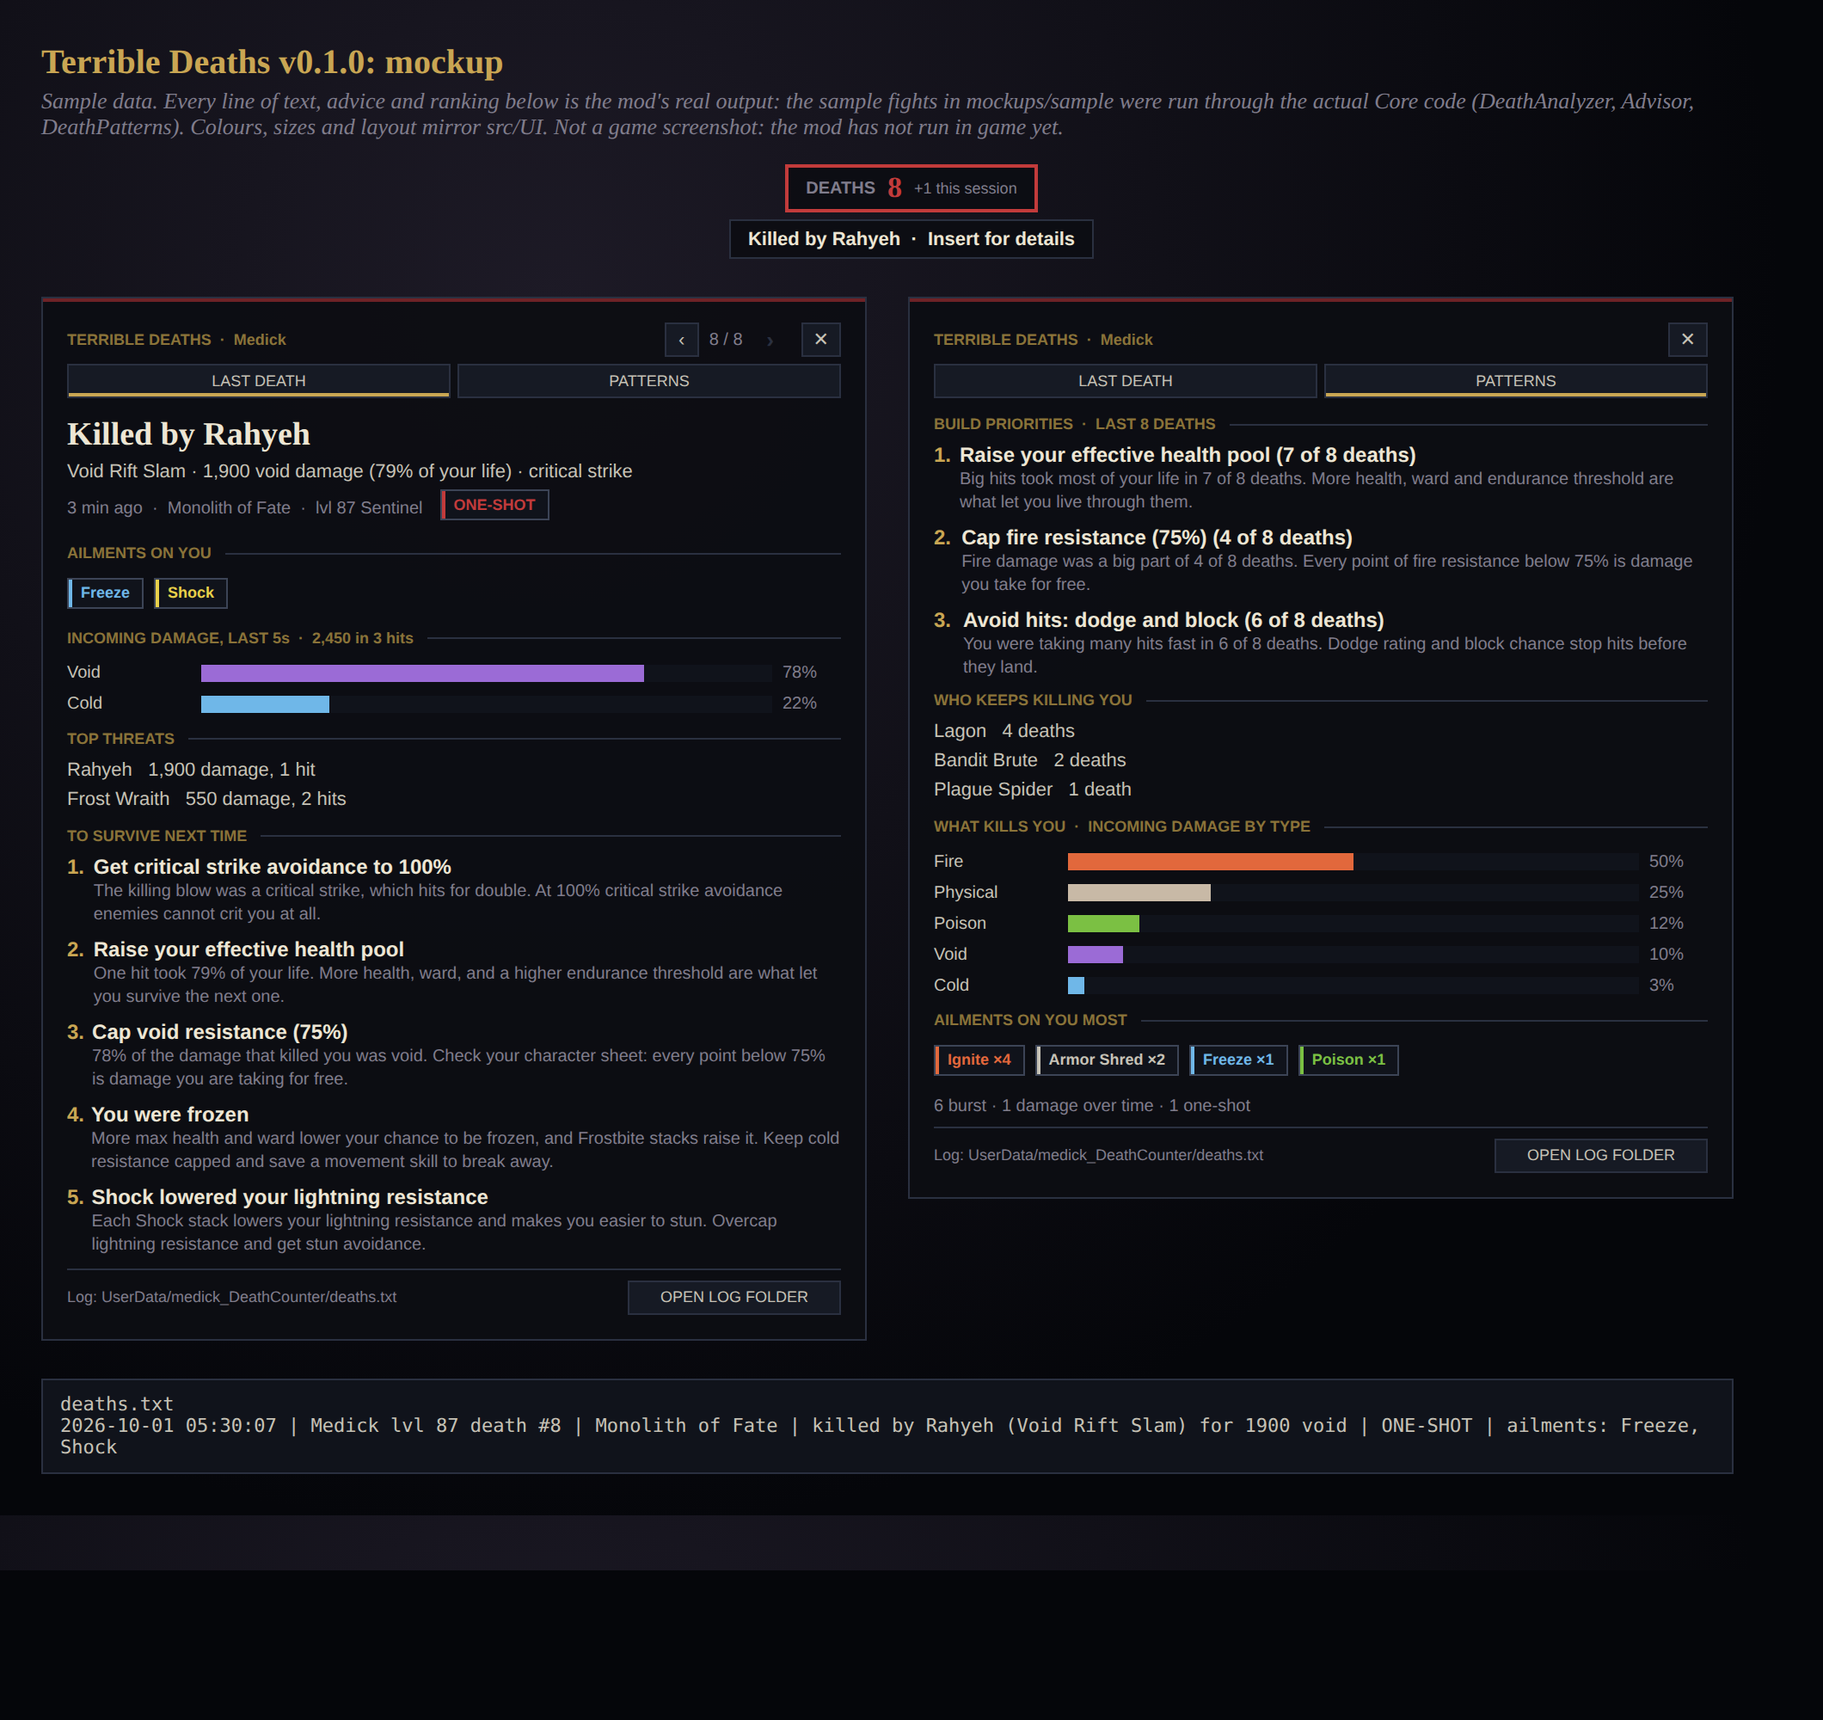
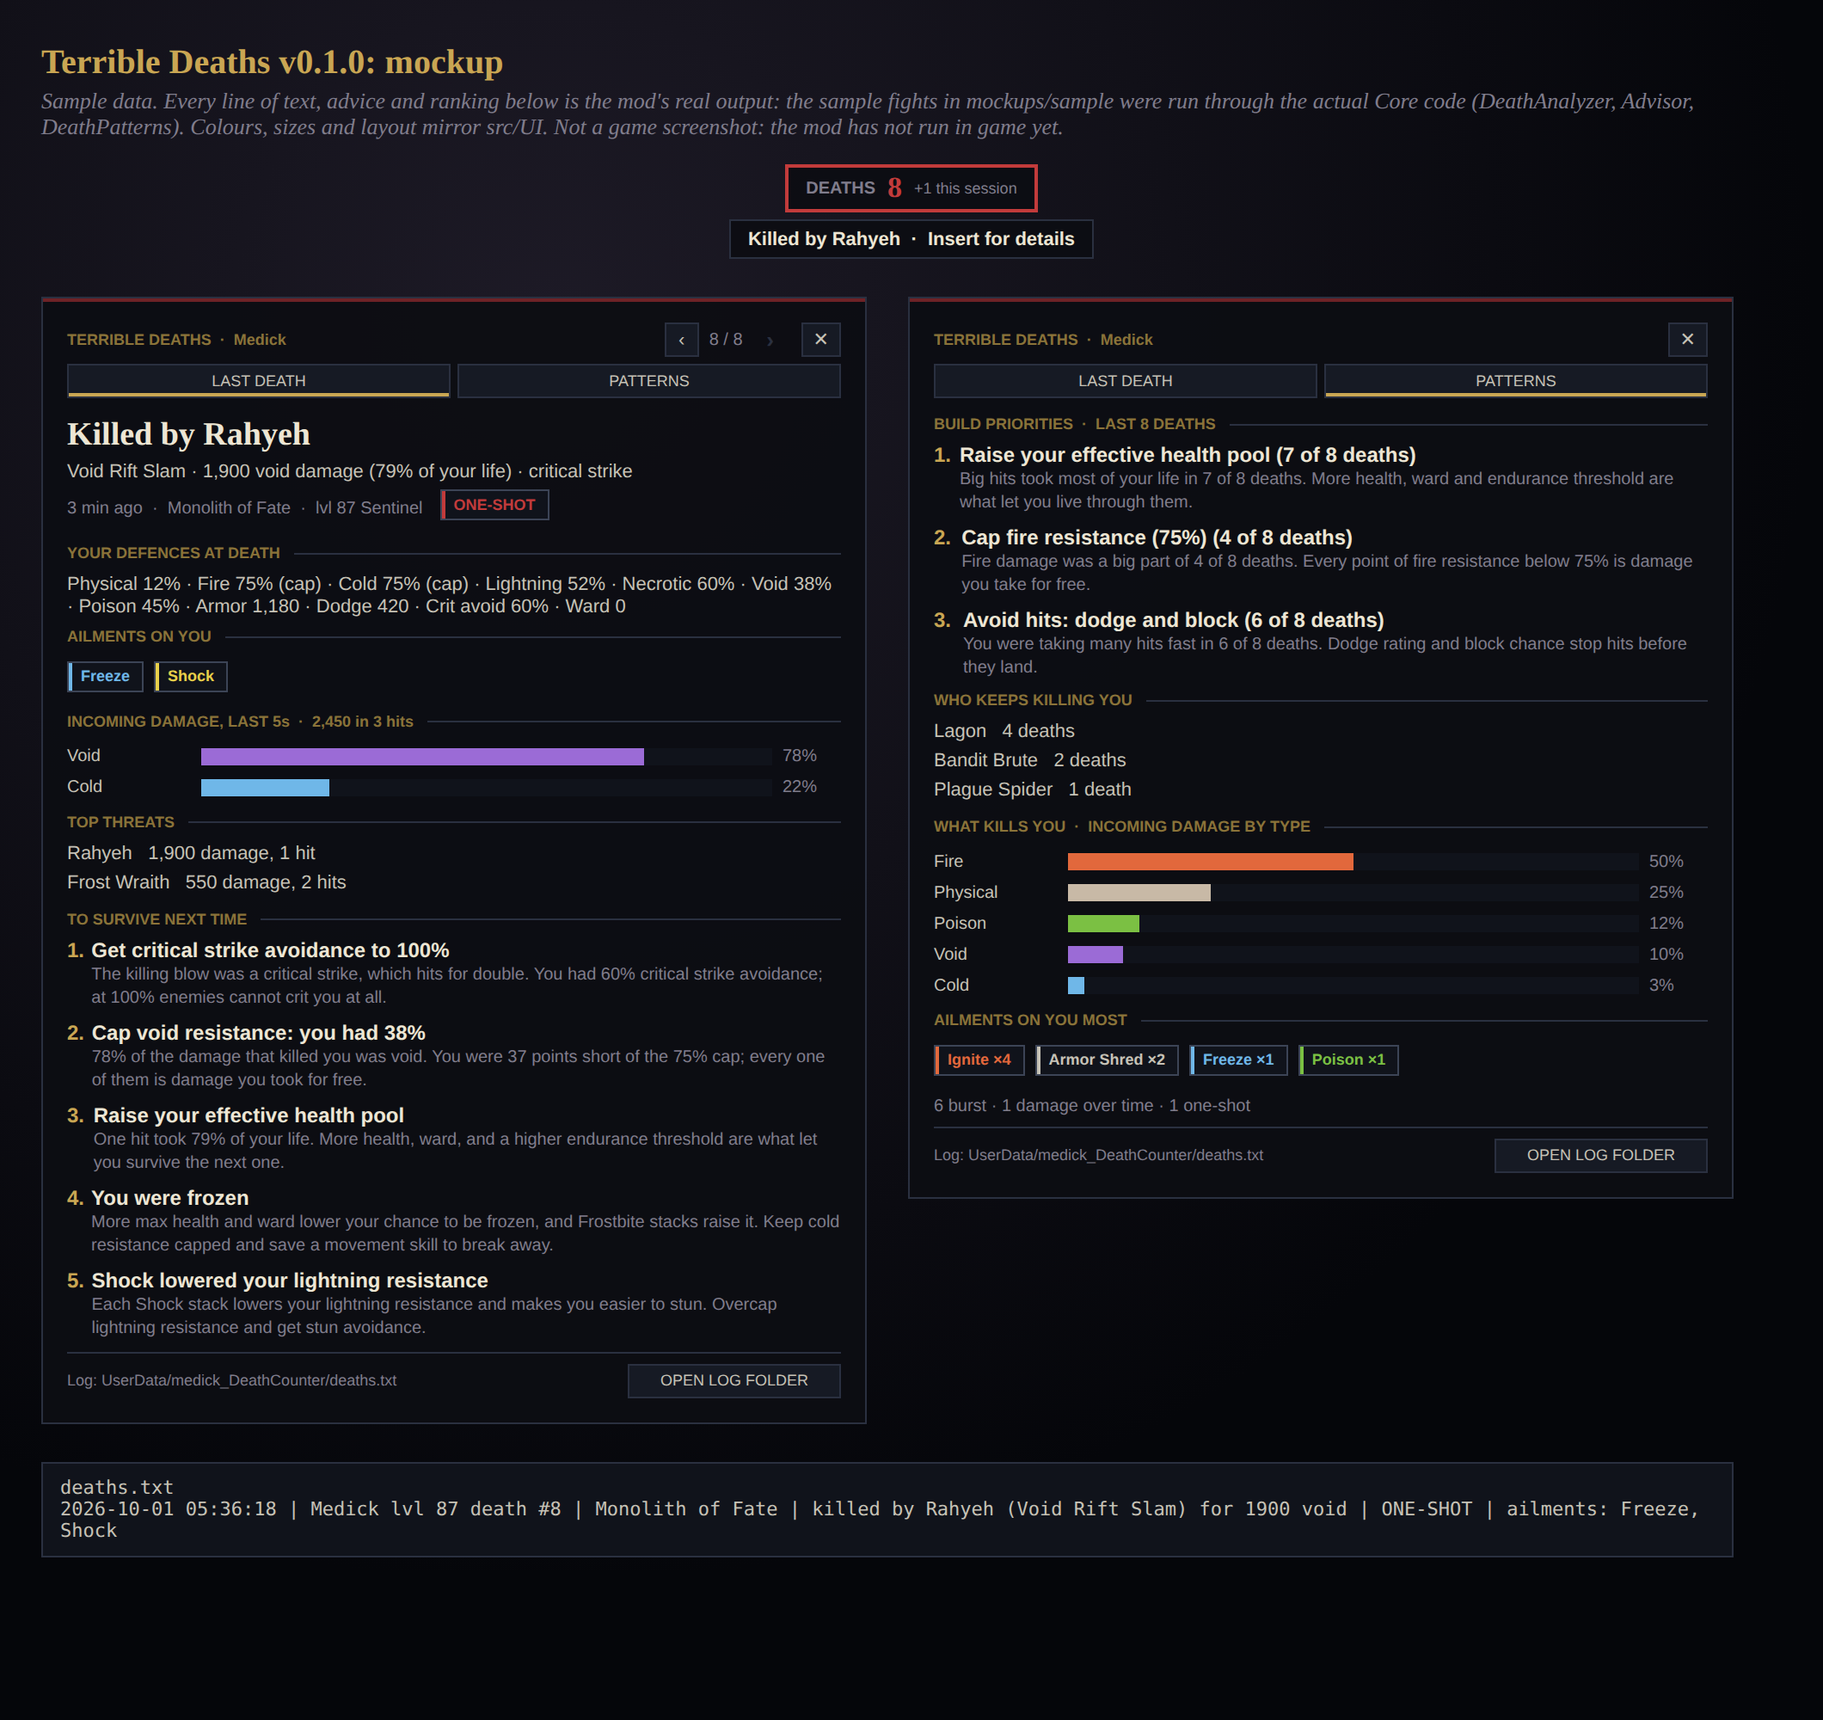
Terrible Deaths mockup: show the defences snapshot and named-number advice
Claude-Session: https://claude.ai/code/session_018uE4PQpeqzhX63tq1rxoRs

diff --git a/medick_DeathCounter/mockups/death-panel.html b/medick_DeathCounter/mockups/death-panel.html
@@ -30,6 +30,6 @@
 <p class="note">Sample data. Every line of text, advice and ranking below is the mod's real output: the sample fights in mockups/sample were run through the actual Core code (DeathAnalyzer, Advisor, DeathPatterns). Colours, sizes and layout mirror src/UI. Not a game screenshot: the mod has not run in game yet.</p>
 <div class="hud"><div class="pill"><span class="l">DEATHS</span><span class="v">8</span><span class="s">+1 this session</span></div>
 <div class="toast">Killed by Rahyeh&nbsp; ·&nbsp; Insert for details</div></div>
-<div class="deck"><div class="panel"><div class="blood"></div><div class="hdr"><span>TERRIBLE DEATHS&nbsp; ·&nbsp; Medick</span><span class="nav"><span class="btn">‹</span><span class="pos">8 / 8</span><span class="dim">›</span></span><span class="btn">✕</span></div><div class="tabs"><span class="tab on">LAST DEATH</span><span class="tab">PATTERNS</span></div><div class="title">Killed by Rahyeh</div><div class="how">Void Rift Slam  ·  1,900 void damage (79% of your life)  ·  critical strike</div><div class="meta"><span>3 min ago&nbsp; ·&nbsp; Monolith of Fate&nbsp; ·&nbsp; lvl 87 Sentinel</span><span class="chip" style="--c:#C23B3B">ONE-SHOT</span></div><div class="sec">AILMENTS ON YOU</div><div class="chips"><span class="chip" style="--c:#6FB7E8">Freeze</span><span class="chip" style="--c:#E8D04A">Shock</span></div><div class="sec">INCOMING DAMAGE, LAST 5s&nbsp; ·&nbsp; 2,450 in 3 hits</div><div class="bar"><span class="bl">Void</span><span class="track"><i style="width:77.6%;background:#9B6BD6"></i></span><span class="pct">78%</span></div><div class="bar"><span class="bl">Cold</span><span class="track"><i style="width:22.4%;background:#6FB7E8"></i></span><span class="pct">22%</span></div><div class="sec">TOP THREATS</div><div class="row">Rahyeh&nbsp;&nbsp; 1,900 damage, 1 hit</div><div class="row">Frost Wraith&nbsp;&nbsp; 550 damage, 2 hits</div><div class="sec">TO SURVIVE NEXT TIME</div><div class="tip"><b class="n">1.</b><div><div class="tt">Get critical strike avoidance to 100%</div><div class="tb">The killing blow was a critical strike, which hits for double. At 100% critical strike avoidance enemies cannot crit you at all.</div></div></div><div class="tip"><b class="n">2.</b><div><div class="tt">Raise your effective health pool</div><div class="tb">One hit took 79% of your life. More health, ward, and a higher endurance threshold are what let you survive the next one.</div></div></div><div class="tip"><b class="n">3.</b><div><div class="tt">Cap void resistance (75%)</div><div class="tb">78% of the damage that killed you was void. Check your character sheet: every point below 75% is damage you are taking for free.</div></div></div><div class="tip"><b class="n">4.</b><div><div class="tt">You were frozen</div><div class="tb">More max health and ward lower your chance to be frozen, and Frostbite stacks raise it. Keep cold resistance capped and save a movement skill to break away.</div></div></div><div class="tip"><b class="n">5.</b><div><div class="tt">Shock lowered your lightning resistance</div><div class="tb">Each Shock stack lowers your lightning resistance and makes you easier to stun. Overcap lightning resistance and get stun avoidance.</div></div></div><div class="foot"><span>Log: UserData/medick_DeathCounter/deaths.txt</span><span class="btn">OPEN LOG FOLDER</span></div></div><div class="panel"><div class="blood"></div><div class="hdr"><span>TERRIBLE DEATHS&nbsp; ·&nbsp; Medick</span><span class="btn">✕</span></div><div class="tabs"><span class="tab">LAST DEATH</span><span class="tab on">PATTERNS</span></div><div class="sec">BUILD PRIORITIES&nbsp; ·&nbsp; LAST 8 DEATHS</div><div class="tip"><b class="n">1.</b><div><div class="tt">Raise your effective health pool  (7 of 8 deaths)</div><div class="tb">Big hits took most of your life in 7 of 8 deaths. More health, ward and endurance threshold are what let you live through them.</div></div></div><div class="tip"><b class="n">2.</b><div><div class="tt">Cap fire resistance (75%)  (4 of 8 deaths)</div><div class="tb">Fire damage was a big part of 4 of 8 deaths. Every point of fire resistance below 75% is damage you take for free.</div></div></div><div class="tip"><b class="n">3.</b><div><div class="tt">Avoid hits: dodge and block  (6 of 8 deaths)</div><div class="tb">You were taking many hits fast in 6 of 8 deaths. Dodge rating and block chance stop hits before they land.</div></div></div><div class="sec">WHO KEEPS KILLING YOU</div><div class="row">Lagon&nbsp;&nbsp; 4 deaths</div><div class="row">Bandit Brute&nbsp;&nbsp; 2 deaths</div><div class="row">Plague Spider&nbsp;&nbsp; 1 death</div><div class="sec">WHAT KILLS YOU&nbsp; ·&nbsp; INCOMING DAMAGE BY TYPE</div><div class="bar"><span class="bl">Fire</span><span class="track"><i style="width:50.0%;background:#E2683C"></i></span><span class="pct">50%</span></div><div class="bar"><span class="bl">Physical</span><span class="track"><i style="width:25.0%;background:#C8B9A6"></i></span><span class="pct">25%</span></div><div class="bar"><span class="bl">Poison</span><span class="track"><i style="width:12.5%;background:#7BC043"></i></span><span class="pct">12%</span></div><div class="bar"><span class="bl">Void</span><span class="track"><i style="width:9.7%;background:#9B6BD6"></i></span><span class="pct">10%</span></div><div class="bar"><span class="bl">Cold</span><span class="track"><i style="width:2.8%;background:#6FB7E8"></i></span><span class="pct">3%</span></div><div class="sec">AILMENTS ON YOU MOST</div><div class="chips"><span class="chip" style="--c:#E2683C">Ignite ×4</span><span class="chip" style="--c:#C6C2B6">Armor Shred ×2</span><span class="chip" style="--c:#6FB7E8">Freeze ×1</span><span class="chip" style="--c:#7BC043">Poison ×1</span></div><div class="kinds">6 burst  ·  1 damage over time  ·  1 one-shot</div><div class="foot"><span>Log: UserData/medick_DeathCounter/deaths.txt</span><span class="btn">OPEN LOG FOLDER</span></div></div></div>
+<div class="deck"><div class="panel"><div class="blood"></div><div class="hdr"><span>TERRIBLE DEATHS&nbsp; ·&nbsp; Medick</span><span class="nav"><span class="btn">‹</span><span class="pos">8 / 8</span><span class="dim">›</span></span><span class="btn">✕</span></div><div class="tabs"><span class="tab on">LAST DEATH</span><span class="tab">PATTERNS</span></div><div class="title">Killed by Rahyeh</div><div class="how">Void Rift Slam  ·  1,900 void damage (79% of your life)  ·  critical strike</div><div class="meta"><span>3 min ago&nbsp; ·&nbsp; Monolith of Fate&nbsp; ·&nbsp; lvl 87 Sentinel</span><span class="chip" style="--c:#C23B3B">ONE-SHOT</span></div><div class="sec">YOUR DEFENCES AT DEATH</div><div class="how">Physical 12%  ·  Fire 75% (cap)  ·  Cold 75% (cap)  ·  Lightning 52%  ·  Necrotic 60%  ·  Void 38%  ·  Poison 45%  ·  Armor 1,180  ·  Dodge 420  ·  Crit avoid 60%  ·  Ward 0</div><div class="sec">AILMENTS ON YOU</div><div class="chips"><span class="chip" style="--c:#6FB7E8">Freeze</span><span class="chip" style="--c:#E8D04A">Shock</span></div><div class="sec">INCOMING DAMAGE, LAST 5s&nbsp; ·&nbsp; 2,450 in 3 hits</div><div class="bar"><span class="bl">Void</span><span class="track"><i style="width:77.6%;background:#9B6BD6"></i></span><span class="pct">78%</span></div><div class="bar"><span class="bl">Cold</span><span class="track"><i style="width:22.4%;background:#6FB7E8"></i></span><span class="pct">22%</span></div><div class="sec">TOP THREATS</div><div class="row">Rahyeh&nbsp;&nbsp; 1,900 damage, 1 hit</div><div class="row">Frost Wraith&nbsp;&nbsp; 550 damage, 2 hits</div><div class="sec">TO SURVIVE NEXT TIME</div><div class="tip"><b class="n">1.</b><div><div class="tt">Get critical strike avoidance to 100%</div><div class="tb">The killing blow was a critical strike, which hits for double. You had 60% critical strike avoidance; at 100% enemies cannot crit you at all.</div></div></div><div class="tip"><b class="n">2.</b><div><div class="tt">Cap void resistance: you had 38%</div><div class="tb">78% of the damage that killed you was void. You were 37 points short of the 75% cap; every one of them is damage you took for free.</div></div></div><div class="tip"><b class="n">3.</b><div><div class="tt">Raise your effective health pool</div><div class="tb">One hit took 79% of your life. More health, ward, and a higher endurance threshold are what let you survive the next one.</div></div></div><div class="tip"><b class="n">4.</b><div><div class="tt">You were frozen</div><div class="tb">More max health and ward lower your chance to be frozen, and Frostbite stacks raise it. Keep cold resistance capped and save a movement skill to break away.</div></div></div><div class="tip"><b class="n">5.</b><div><div class="tt">Shock lowered your lightning resistance</div><div class="tb">Each Shock stack lowers your lightning resistance and makes you easier to stun. Overcap lightning resistance and get stun avoidance.</div></div></div><div class="foot"><span>Log: UserData/medick_DeathCounter/deaths.txt</span><span class="btn">OPEN LOG FOLDER</span></div></div><div class="panel"><div class="blood"></div><div class="hdr"><span>TERRIBLE DEATHS&nbsp; ·&nbsp; Medick</span><span class="btn">✕</span></div><div class="tabs"><span class="tab">LAST DEATH</span><span class="tab on">PATTERNS</span></div><div class="sec">BUILD PRIORITIES&nbsp; ·&nbsp; LAST 8 DEATHS</div><div class="tip"><b class="n">1.</b><div><div class="tt">Raise your effective health pool  (7 of 8 deaths)</div><div class="tb">Big hits took most of your life in 7 of 8 deaths. More health, ward and endurance threshold are what let you live through them.</div></div></div><div class="tip"><b class="n">2.</b><div><div class="tt">Cap fire resistance (75%)  (4 of 8 deaths)</div><div class="tb">Fire damage was a big part of 4 of 8 deaths. Every point of fire resistance below 75% is damage you take for free.</div></div></div><div class="tip"><b class="n">3.</b><div><div class="tt">Avoid hits: dodge and block  (6 of 8 deaths)</div><div class="tb">You were taking many hits fast in 6 of 8 deaths. Dodge rating and block chance stop hits before they land.</div></div></div><div class="sec">WHO KEEPS KILLING YOU</div><div class="row">Lagon&nbsp;&nbsp; 4 deaths</div><div class="row">Bandit Brute&nbsp;&nbsp; 2 deaths</div><div class="row">Plague Spider&nbsp;&nbsp; 1 death</div><div class="sec">WHAT KILLS YOU&nbsp; ·&nbsp; INCOMING DAMAGE BY TYPE</div><div class="bar"><span class="bl">Fire</span><span class="track"><i style="width:50.0%;background:#E2683C"></i></span><span class="pct">50%</span></div><div class="bar"><span class="bl">Physical</span><span class="track"><i style="width:25.0%;background:#C8B9A6"></i></span><span class="pct">25%</span></div><div class="bar"><span class="bl">Poison</span><span class="track"><i style="width:12.5%;background:#7BC043"></i></span><span class="pct">12%</span></div><div class="bar"><span class="bl">Void</span><span class="track"><i style="width:9.7%;background:#9B6BD6"></i></span><span class="pct">10%</span></div><div class="bar"><span class="bl">Cold</span><span class="track"><i style="width:2.8%;background:#6FB7E8"></i></span><span class="pct">3%</span></div><div class="sec">AILMENTS ON YOU MOST</div><div class="chips"><span class="chip" style="--c:#E2683C">Ignite ×4</span><span class="chip" style="--c:#C6C2B6">Armor Shred ×2</span><span class="chip" style="--c:#6FB7E8">Freeze ×1</span><span class="chip" style="--c:#7BC043">Poison ×1</span></div><div class="kinds">6 burst  ·  1 damage over time  ·  1 one-shot</div><div class="foot"><span>Log: UserData/medick_DeathCounter/deaths.txt</span><span class="btn">OPEN LOG FOLDER</span></div></div></div>
 <div class="log">deaths.txt
-2026-10-01 05:30:07 | Medick lvl 87 death #8 | Monolith of Fate | killed by Rahyeh (Void Rift Slam) for 1900 void | ONE-SHOT | ailments: Freeze, Shock</div></body></html>
+2026-10-01 05:36:18 | Medick lvl 87 death #8 | Monolith of Fate | killed by Rahyeh (Void Rift Slam) for 1900 void | ONE-SHOT | ailments: Freeze, Shock</div></body></html>

diff --git a/medick_DeathCounter/mockups/build.py b/medick_DeathCounter/mockups/build.py
@@ -23,6 +23,17 @@ AILEL = {'Ignite': 'Fire', 'Bleed': 'Physical', 'Poison': 'Poison', 'Frostbite':
 NAMES = ['Physical', 'Fire', 'Cold', 'Lightning', 'Necrotic', 'Void', 'Poison']
 L, P = d['last'], d['pat']
 
+def defense_line(rec):
+    """Mirror of DeathPanel.DefenseLine."""
+    df, parts = rec['Defenses'], []
+    for n in NAMES:
+        if 'Res.' + n in df:
+            v = df['Res.' + n]; parts.append(f"{n} {v:.0f}%" + (" (cap)" if v >= 74.5 else ""))
+    for key, fmt in (('Armor', 'Armor {:,.0f}'), ('Dodge', 'Dodge {:,.0f}'), ('Block', 'Block {:.0f}%'), ('Endurance', 'Endurance {:.0f}%'),
+                     ('CritAvoidance', 'Crit avoid {:.0f}%'), ('Ward', 'Ward {:,.0f}')):
+        if key in df: parts.append(fmt.format(df[key]))
+    return "  ·  ".join(parts)
+
 def chip(t, c): return f'<span class="chip" style="--c:{c}">{E(t)}</span>'
 def acol(a): return COL.get(AILEL.get(a, ''), '#C6C2B6')
 def bars(items):
@@ -46,7 +57,8 @@ def panel(tab, body, nav=True):
 last_body = (
     f'<div class="title">Killed by {E(d["killerLine"])}</div><div class="how">{E("  ·  ".join(how))}</div>'
     f'<div class="meta"><span>3 min ago&nbsp; ·&nbsp; {E(L["Zone"])}&nbsp; ·&nbsp; lvl {L["Level"]} {E(L["CharacterClass"])}</span>{chip(d["kind"], "#C23B3B")}</div>'
-    f'<div class="sec">AILMENTS ON YOU</div><div class="chips">{"".join(chip(a, acol(a)) for a in L["AilmentsOnYou"])}</div>'
+    + (f'<div class="sec">YOUR DEFENCES AT DEATH</div><div class="how">{E(defense_line(L))}</div>' if L.get('Defenses') else '')
+    + f'<div class="sec">AILMENTS ON YOU</div><div class="chips">{"".join(chip(a, acol(a)) for a in L["AilmentsOnYou"])}</div>'
     f'<div class="sec">INCOMING DAMAGE, LAST 5s&nbsp; ·&nbsp; {L["WindowDamage"]:,.0f} in {L["Hits"]} hits</div>{bars(mix)}'
     f'<div class="sec">TOP THREATS</div>'
     + ''.join(f'<div class="row">{E(s["Name"])}&nbsp;&nbsp; {s["Amount"]:,.0f} damage, {s["Hits"]} hit{"s" if s["Hits"] != 1 else ""}</div>' for s in L['TopSources'])

diff --git a/medick_DeathCounter/mockups/sample/Program.cs b/medick_DeathCounter/mockups/sample/Program.cs
@@ -17,6 +17,8 @@ Fight(Enumerable.Range(0, 20).Select(i => H(5 + i * 0.25, 130, "Plague Spider", 
 // the last death: a frozen one-shot crit
 var last = Fight(new() { H(8.8, 300, "Frost Wraith", Element.Cold), H(9.4, 250, "Frost Wraith", Element.Cold, "Frost Claw"), H(10, 1900, "Rahyeh", Element.Void, "Void Rift Slam", crit: true) }, 10, new[] { "Freeze", "Shock" });
 last.GameDeathInfo = "";
+last.Defenses = new() { ["Res.Physical"] = 12, ["Res.Fire"] = 75, ["Res.Cold"] = 75, ["Res.Lightning"] = 52, ["Res.Necrotic"] = 60,
+                        ["Res.Void"] = 38, ["Res.Poison"] = 45, ["Armor"] = 1180, ["Dodge"] = 420, ["CritAvoidance"] = 60, ["Ward"] = 0 };
 var tips = Advisor.Suggest(last, history);
 var pat = DeathPatterns.Build(history);
 var opts = new JsonSerializerOptions { IncludeFields = true, Converters = { new System.Text.Json.Serialization.JsonStringEnumConverter() } };
